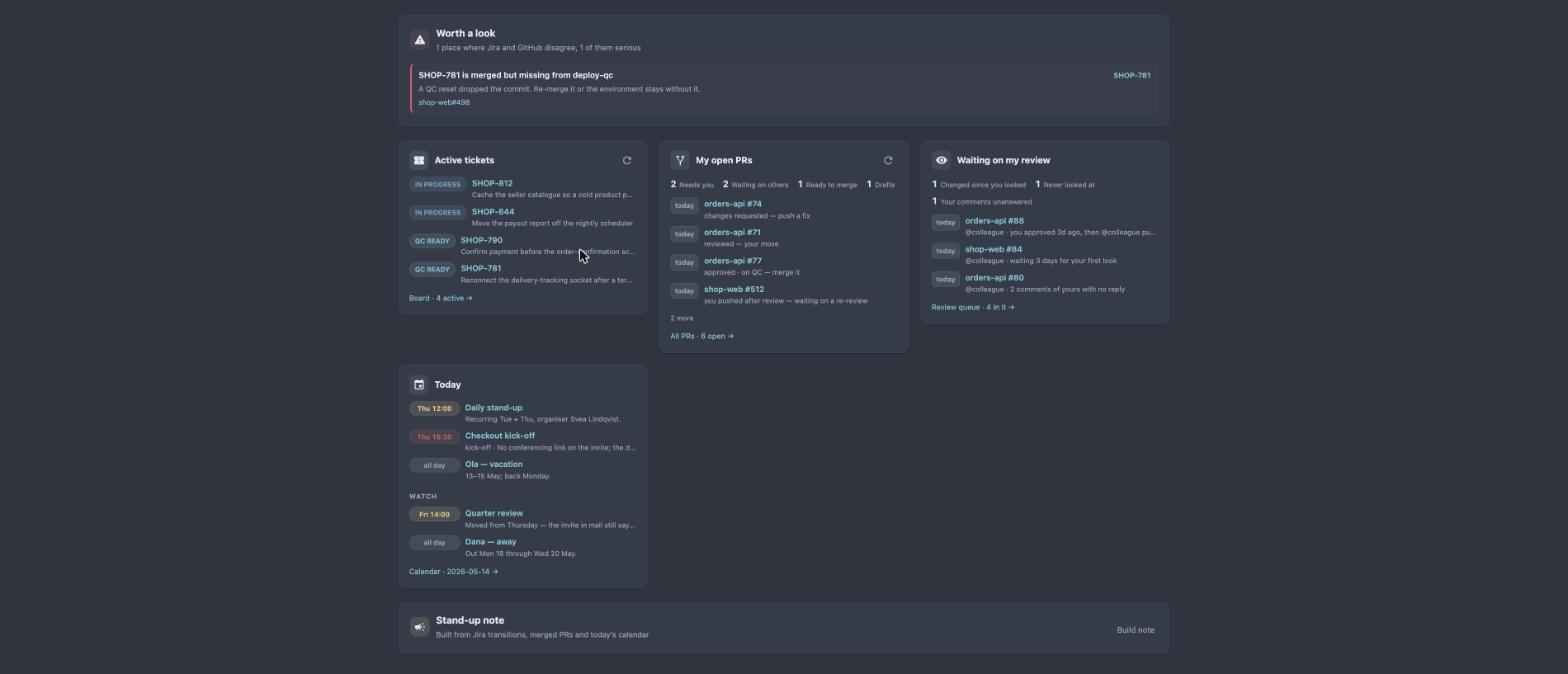
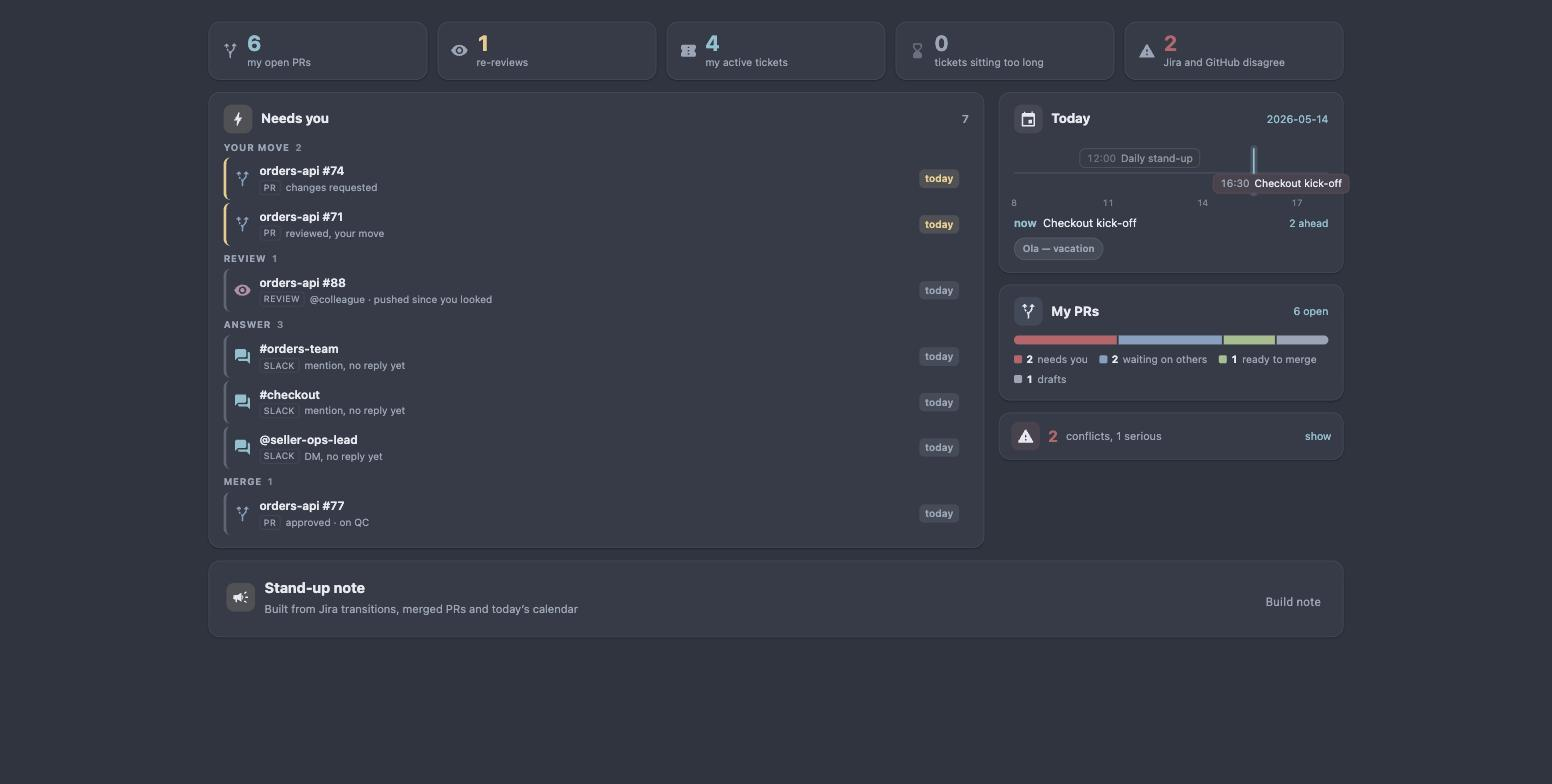
re-shoot the README screenshots on the new dashboard
Both palettes, from the Pages/Home story on the invented marketplace fixtures. They were
two redesigns behind — showing modules that no longer exist.

The story now restamps the Slack fixture the way it already did PRs and reviews: fixture
dates are fixed for determinism, so without it the mention queue read "117d" and the
screenshot looked like a dashboard nobody had opened since spring.

The tech-debt entry stays, rewritten: the files are current, but the process is the debt —
they have fallen behind once per redesign, and the catch-up wants a script rather than ten
minutes of clicking.

diff --git a/src/stories/HomePage.stories.tsx b/src/stories/HomePage.stories.tsx
@@ -28,13 +28,26 @@ const freshReviews = {
   })),
 };
 
+/**
+ * Slack too: the fixture is dated with everything else, so without this the mention queue
+ * reads "117d" and the screenshot looks like a dashboard nobody has opened since spring.
+ */
+const freshSlack = {
+  ...slackReport,
+  rows: slackReport.rows.map((row, i) => ({
+    ...row,
+    at: minutesAgo(90 + i * 240),
+    lastAt: minutesAgo(90 + i * 240),
+  })),
+};
+
 const meta = {
   title: 'Pages/Home',
   component: HomePage,
   args: {
     jira: jiraReport,
     reviews: freshReviews,
-    slack: slackReport,
+    slack: freshSlack,
     calendar: calendarReport,
     prs: freshPrs,
   },
@@ -52,7 +65,7 @@ export const NothingWaiting: Story = {
   args: {
     prs: { ...prsReport, repos: [] },
     reviews: { ...reviewsReport, prs: [] },
-    slack: { ...slackReport, rows: [] },
+    slack: { ...freshSlack, rows: [] },
   },
 };
 

diff --git a/TECH-DEBT.md b/TECH-DEBT.md
@@ -17,18 +17,18 @@ network, which the security model says it never will be.
 fallback, and Recharts follows it into its own chunk. Half an hour, and the only risk is the
 chart's CSS custom properties resolving a frame later than the page.
 
-## The README screenshots lag the dashboard
+## The README screenshots go stale on every redesign
 
-`docs/home.jpg` and `docs/home-nord.jpg` were re-shot when the dashboard became modules, and
-have since fallen behind again: they predate the Slack module, the ticket-aging pills and the
-paired top row of flow checks and calendar.
+Currently **up to date** — both palettes were re-shot on the strip-and-queue dashboard. The
+debt is the process, not the files: they have now fallen behind twice, once per redesign, and
+each catch-up needs Storybook running on a hand-picked Node, two URLs, two screenshots and two
+file copies.
 
-**Cost today:** a reader sees a slightly older product than the one described two paragraphs
-below the image. Nothing is wrong, only stale.
+**Cost today:** none, until the next visible change to the dashboard.
 
-**Fix:** run Storybook, open `Pages/Home`, shoot both palettes, replace the two files. Ten
-minutes — but it needs doing after *every* visible dashboard change, which is why it keeps
-lagging. Worth automating with a Playwright script against the story if it drifts again.
+**Fix:** a script — Playwright against `Pages/Home`, both palettes, writing straight into
+`docs/` — so it is one command rather than ten minutes of clicking. Worth doing the next time
+they drift rather than pre-emptively.
 
 ## The Jira pull reads a changelog per aged ticket
 

diff --git a/README.md b/README.md
@@ -6,8 +6,8 @@ calendar, each rendered from a JSON report on disk.
 **This is a single-user, local-only app by design.** See
 [Why it stays local](#why-it-stays-local) before considering deploying it anywhere.
 
-![The dashboard: a flow-check card, then modules for active tickets, my open PRs, the review
-queue and today's calendar, and the stand-up note](docs/home.jpg)
+![The dashboard: a strip of six counts, one prioritised queue grouped by what to do, today as
+a timeline, open PRs as a proportional bar, and the stand-up note](docs/home.jpg)
 
 One screen: six numbers, one queue, and the day. The version before this was five cards of
 identical shape — a title, a count, then four lines of prose each — which measured 341 words
